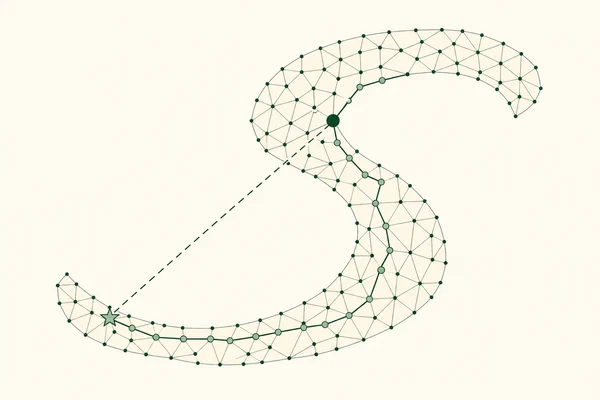
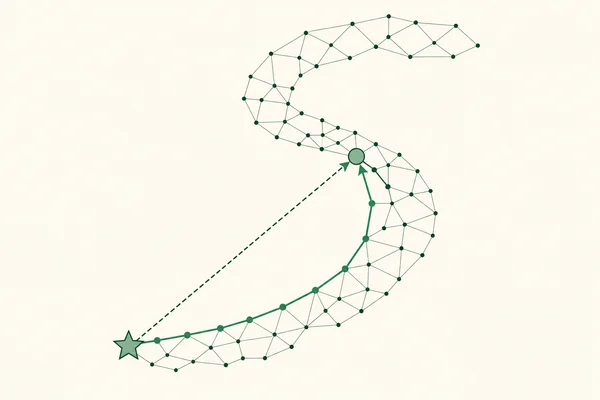
Polish GPR-LLM and MA-DPR figures
- GPR-LLM: calmer three-stage composition; the Gaussian mesh dominates,
  eight passages instead of a wall of cards, five-bar ranking
- MA-DPR: the Euclidean-vs-manifold contrast is the story now; bold jade
  on-manifold path vs thin dashed chord, jade query star (was gold,
  off-palette), arrowheads on both routes
- Prompt doc updated to match what shipped

Claude-Session: https://claude.ai/code/session_01HNCvmNPCNbD5UKfezSwKYA

diff --git a/docs/figure-prompts.md b/docs/figure-prompts.md
@@ -51,17 +51,23 @@ convert ig_*.png -filter Lanczos -resize 600x400 -quality 86 assets/img/pubs/<sl
   from the agent an arrow leads to a ranked podium of three product bars where the
   buff-tinted product stands first, marked with a small warning triangle. Exactly
   one small label: GEO, on the hooked document.
-- **gpr-llm** — Left to right: a tall stack of many small passage cards, with three
-  of them highlighted jade and lifted on thin lines up to a small LLM chip that
-  marks each with a score dot; the scored dots feed into a smooth hill-shaped
-  Gaussian surface drawn as a fine contour mesh with a soft buff confidence band;
-  from the surface a bold arrow leads to a neat ranked list of item bars. Exactly
-  one small label: GPR, beside the surface.
-- **ma-dpr** — An S-shaped ribbon made of many small dots forming a point cloud,
-  with faint short edges joining neighboring dots into a graph; a small star marks a
-  query at one end of the S and a bold dot marks a passage midway along it; two
-  routes connect them: a straight dashed chord cutting across the empty gap, and a
-  solid path that hops dot to dot following the curve of the S. No text anywhere.
+- **gpr-llm** — Three calm stages, left to right: first a neat single column of
+  eight small passage cards, three of them tinted jade and connected by thin lines
+  up to one small LLM chip that marks each with a score dot; second, dominating
+  the center, a smooth hill-shaped Gaussian surface drawn as an elegant fine
+  contour mesh with a soft buff confidence band beneath its curve; third, a bold
+  arrow leading to a short ranked list of five horizontal bars, the top bar filled
+  jade. Exactly one small label: GPR, beside the surface. Generous calm spacing
+  between the three stages.
+- **ma-dpr** — A graceful S-shaped ribbon of small dots forming a point cloud,
+  joined into a sparse graph by faint short edges; at the lower end of the S a
+  clear five-pointed star marks the query, the star filled muted jade with a
+  bottle-green outline; midway along the S one large jade-filled dot marks a
+  passage; two strongly contrasting routes connect them: a thin straight dashed
+  chord cutting across the empty gap, and a bold solid jade path that hops dot to
+  dot following the ribbon's curve; a small arrowhead on each route. No text
+  anywhere. (Add "strictly no yellow, no gold" to the style line; the model likes
+  gilding the star.)
 - **eqr** — Left to right: one small query bubble, arrows elaborating it into a fan
   of six smaller subtopic bubbles, whose thin lines converge onto a vertical ranked
   list of five horizontal item bars; the top bar is filled jade, the rest stay